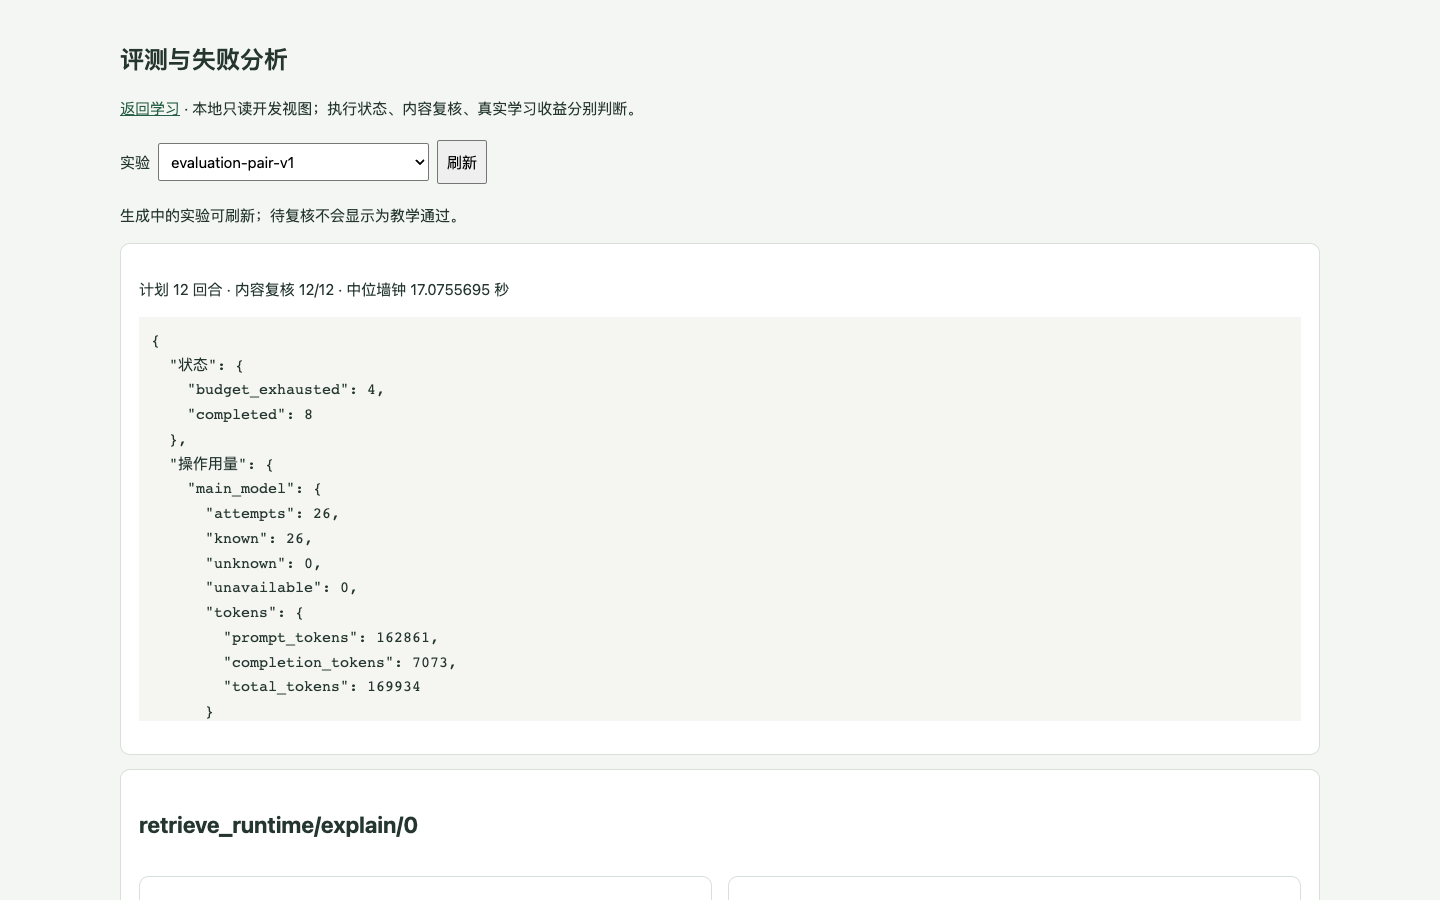
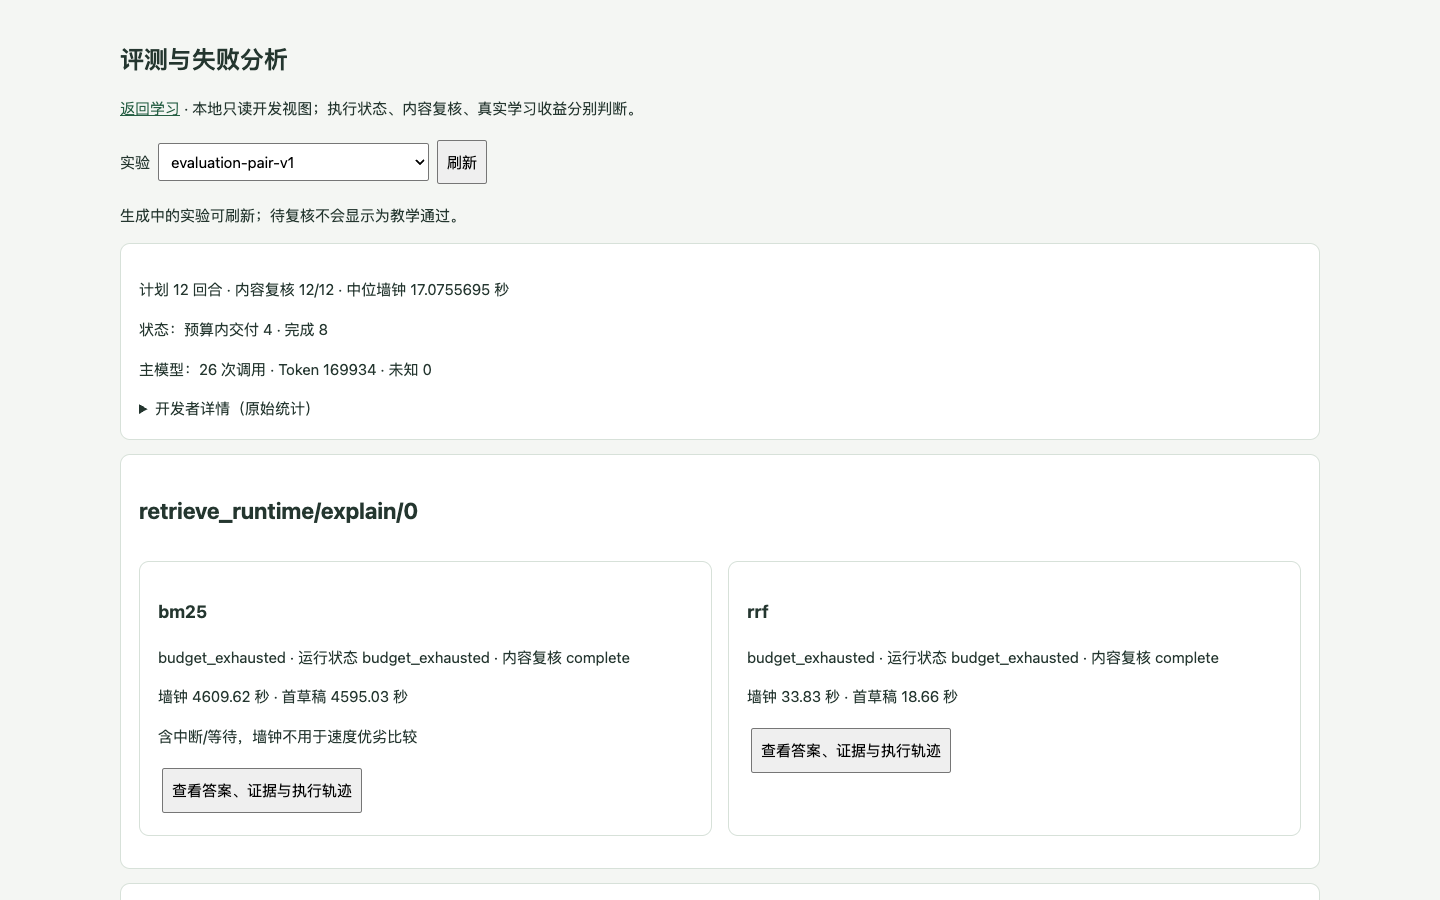
优化首次使用信息层级与评测摘要

diff --git a/src/learning_agent/index.html b/src/learning_agent/index.html
@@ -2,10 +2,10 @@
 <html lang="zh-CN"><meta charset="utf-8"><meta name="viewport" content="width=device-width,initial-scale=1">
 <title>Learning Agent</title><link rel="icon" href="data:,">
 <link rel="stylesheet" href="/static/vendor/katex/katex.min.css"><style>
-[hidden]{display:none!important}:root{font:15px/1.7 system-ui;color:#20312d;background:#f5f6f2}*{box-sizing:border-box}body{margin:0}header{padding:20px 28px;border-bottom:1px solid #dce3dc}h1{font-size:22px;margin:0}p{margin:8px 0;color:#53675e}main{display:grid;grid-template-columns:280px 1fr;gap:24px;max-width:1180px;margin:auto;padding:24px}aside,section{background:white;padding:20px;border:1px solid #dce3dc;border-radius:12px;min-width:0}input,select,textarea,button{font:inherit;border:1px solid #cbd5cc;border-radius:6px;padding:8px;width:100%;margin:5px 0}button{cursor:pointer;background:#e7efe7}button:disabled{opacity:.5}textarea{resize:vertical}article{padding:18px 0;border-bottom:1px solid #edf0ec}article .body{overflow-wrap:anywhere}article .body.user{white-space:pre-wrap}.katex-display{overflow-x:auto;overflow-y:hidden;padding:8px 0}pre{white-space:pre-wrap;overflow-wrap:anywhere}video,audio{width:100%;max-height:500px}.range{display:flex;gap:12px}.range label{flex:1}.sources{display:flex;gap:8px;flex-wrap:wrap}.sources button,.feedback-actions button{width:auto;font-size:13px}.feedback-actions{display:flex;gap:8px;flex-wrap:wrap;margin-top:12px}#learning-panel{padding:12px;background:#f5f6f2}#feedback-draft{padding:12px;border:1px solid #cbd5cc;border-radius:8px}pre{font:13px/1.6 ui-monospace,monospace;max-height:250px;overflow:auto;background:#f5f6f2;padding:12px}.error{color:#9b3d29}label{display:block;margin-top:16px}small{color:#64756b}#notice{min-height:28px}details{margin-top:10px}#chat{min-height:250px}a{color:#38634b}ul{padding-left:18px}@media(max-width:740px){main{grid-template-columns:1fr}}#starter-questions{margin:12px 0;padding:12px;background:#f5f6f2;border-radius:8px}#starter-questions .sources{margin-top:8px}
+[hidden]{display:none!important}:root{font:15px/1.7 system-ui;color:#20312d;background:#f5f6f2}*{box-sizing:border-box}body{margin:0}header{padding:20px 28px;border-bottom:1px solid #dce3dc}h1{font-size:22px;margin:0}p{margin:8px 0;color:#53675e}main{display:grid;grid-template-columns:280px 1fr;gap:24px;max-width:1180px;margin:auto;padding:24px}aside,section{background:white;padding:20px;border:1px solid #dce3dc;border-radius:12px;min-width:0}input,select,textarea,button{font:inherit;border:1px solid #cbd5cc;border-radius:6px;padding:8px;width:100%;margin:5px 0}button{cursor:pointer;background:#e7efe7}button:disabled{opacity:.5}textarea{resize:vertical}article{padding:18px 0;border-bottom:1px solid #edf0ec}article .body{overflow-wrap:anywhere}article .body.user{white-space:pre-wrap}.katex-display{overflow-x:auto;overflow-y:hidden;padding:8px 0}pre{white-space:pre-wrap;overflow-wrap:anywhere}video,audio{width:100%;max-height:500px}.range{display:flex;gap:12px}.range label{flex:1}.sources{display:flex;gap:8px;flex-wrap:wrap}.sources button,.feedback-actions button{width:auto;font-size:13px}.feedback-actions{display:flex;gap:8px;flex-wrap:wrap;margin-top:12px}#learning-panel{padding:12px;background:#f5f6f2}#feedback-draft{padding:12px;border:1px solid #cbd5cc;border-radius:8px}pre{font:13px/1.6 ui-monospace,monospace;max-height:250px;overflow:auto;background:#f5f6f2;padding:12px}.error{color:#9b3d29}label{display:block;margin-top:16px}small{color:#64756b}#notice{min-height:28px}details{margin-top:10px}#chat{min-height:250px}a{color:#38634b}ul{padding-left:18px}@media(max-width:740px){main{grid-template-columns:1fr}}#starter-questions{margin:12px 0;padding:12px;background:#f5f6f2;border-radius:8px}#starter-questions .sources{margin-top:8px}#tech-status{margin:6px 0 0}
 </style>
 <style>.body strong,.body b{font-weight:800;color:#172c25}.body h1,.body h2,.body h3,.body h4{color:#20312d;line-height:1.35;margin:18px 0 8px}.body table{display:block;max-width:100%;overflow:auto;border-collapse:collapse;margin:12px 0}.body th,.body td{border:1px solid #dce3dc;padding:7px 10px;text-align:left;vertical-align:top}.body th{background:#eef4ee;font-weight:800}.body code{background:#eef2ee;border-radius:4px;padding:2px 5px;font:0.9em ui-monospace,monospace}.body pre{background:#f1f4f1;border-left:3px solid #9aaa9d;border-radius:5px;padding:12px}.body blockquote{border-left:3px solid #9aaa9d;margin:12px 0;padding:4px 14px;color:#53675e}.sources button{border-color:#9aaa9d;background:#f2f7f2}.segments{display:flex;flex-direction:column;gap:4px}.segments button{width:100%;text-align:left;font-size:13px;background:#f7faf7;margin:0}</style>
-<header><h1>Learning Agent · 学懂当前的困惑</h1><p>上传讲义、笔记或课程音视频，围绕困惑提问；Agent 按需结合原文、图表与片段画面讲解。</p><small id="status">正在检查配置…</small></header>
+<header><h1>Learning Agent · 学懂当前的困惑</h1><p>上传讲义、笔记或课程音视频，围绕困惑提问；Agent 按需结合原文、图表与片段画面讲解。</p><small id="status">正在检查配置…</small><details id="tech-status" hidden><summary>技术信息</summary><p id="tech-status-body"></p></details></header>
 <main><aside><h3>资料空间</h3><select id="spaces" aria-label="资料空间"></select><form id="space-form"><input id="space-name" placeholder="新空间名称" required maxlength="120"><button>创建空间</button></form>
 <form id="upload-form"><label>添加文档 / 音频 / 视频<input id="file" type="file" accept=".txt,.md,.pdf,.mp4,.mov,.webm,.mkv,.mp3,.m4a,.wav,.ogg,.flac" required></label><button>上传资料</button></form><p id="upload-progress" role="status"></p><button id="pause-upload" type="button" hidden>在当前文件块结束后暂停上传</button><div id="upload-recovery" hidden><small id="upload-recovery-hint"></small><button id="resume-upload" type="button">确认所选为同一原文件，继续上传</button><button id="cancel-upload" type="button">取消未完成上传并释放临时文件</button></div><ul id="materials"></ul><button id="prepare-index" type="button">准备语义检索</button><small id="index-status"></small><details id="navigation" hidden><summary id="navigation-title">资料目录</summary><div id="navigation-entries"></div><button id="navigation-more" type="button" hidden>继续查看目录</button><small>页面首行 / 时间分组，用于定位；不代表已理解整份资料。</small></details>
 <details id="jobs-panel" open><summary>后台处理任务</summary><p id="worker-state"></p><div id="jobs"></div><small>暂停在当前处理步骤结束后生效。取消会阻止发布；已经发出的云端请求可能仍会计费。</small></details>
@@ -22,4 +22,4 @@
 <div id="memory-state"></div><div id="memory-items"></div>
 <details id="memory-editor"><summary>保存希望延续的学习记录</summary><form id="memory-form"><label>类型<select id="memory-kind"><option value="preference">讲解偏好</option><option value="goal">学习目标</option><option value="unresolved">待解释问题</option></select></label><label>希望保存的内容<textarea id="memory-text" rows="3" maxlength="600" required></textarea></label><label>适用范围<select id="memory-material"><option value="">整个主题</option></select></label><label>来源回答（选填；保存表示你已确认这条记录）<select id="memory-source"><option value="">由我直接填写</option></select></label><button>确认保存为主题记忆</button></form></details>
 <small>修改、停用或遗忘会使相关会话的旧摘要和自动历史接续失效，保留你明确填写的状态。遗忘会移除记忆及其修订内容，原始对话仍保留，可另行回看。主题资料范围创建后固定。</small></details><section id="runtime-panel" hidden aria-label="当前问答任务"><p id="runtime-state" role="status" aria-live="polite"></p><ol id="runtime-progress"></ol><p id="runtime-hint"></p><button id="runtime-cancel" type="button" hidden>停止本轮</button><label id="runtime-retry-warning" hidden><input type="checkbox" id="runtime-retry-ack" style="width:auto">先前模型请求可能已经计费，我确认重试可能再次计费。</label><button id="runtime-resume" type="button" hidden>继续本轮</button><button id="runtime-retry-submit" type="button" hidden>重试确认上次提交</button></section><div id="runtime-draft" hidden style="border:1px dashed #9aaa9d;border-radius:8px;padding:16px;margin:12px 0"><small id="runtime-draft-label"></small><div id="runtime-draft-text" style="white-space:pre-wrap;overflow-wrap:anywhere;margin-top:8px"></div></div><div id="starter-questions" hidden><small>可以这样开始：</small><div class="sources"><button type="button" data-starter="这份资料的核心结论是什么？">资料核心结论</button><button type="button" data-starter="请用一个小例子解释这个概念。">换个小例子</button><button type="button" data-starter="这个结论在资料里的哪一页或哪一段？">定位到来源</button></div></div><div id="chat"></div><form id="ask-form"><label for="question">你想弄懂什么？</label><div id="feedback-draft" hidden><p id="feedback-label"></p><label for="feedback-focus">对应的步骤或选中文字（选填，可修改）</label><textarea id="feedback-focus" rows="2" maxlength="1000"></textarea><button id="cancel-feedback" type="button">取消本次反馈</button></div><textarea id="question" rows="3" required maxlength="6000" placeholder="这段内容我没懂，能换个例子解释吗？"></textarea><button id="send">提问 / 继续追问</button></form></section></main>
-<script src="/static/vendor/marked/marked.umd.js"></script><script src="/static/vendor/dompurify/purify.min.js"></script><script src="/static/vendor/katex/katex.min.js"></script><script src="/static/vendor/katex/auto-render.min.js"></script><script src="/static/app.js?v=runtime-rt3-2"></script><script src="/static/memory.js?v=learning-memory-2"></script><script src="/static/runtime.js?v=runtime-rt3-1"></script></html>
+<script src="/static/vendor/marked/marked.umd.js"></script><script src="/static/vendor/dompurify/purify.min.js"></script><script src="/static/vendor/katex/katex.min.js"></script><script src="/static/vendor/katex/auto-render.min.js"></script><script src="/static/app.js?v=runtime-rt3-3"></script><script src="/static/memory.js?v=learning-memory-2"></script><script src="/static/runtime.js?v=runtime-rt3-1"></script></html>

diff --git a/src/learning_agent/evaluation/view.html b/src/learning_agent/evaluation/view.html
@@ -5,7 +5,7 @@
 const $=id=>document.getElementById(id);let eid='',rows=[],version=0;
 function el(tag,text,parent){const n=document.createElement(tag);if(text!==undefined)n.textContent=text;if(parent)parent.append(n);return n;}
 async function api(url){const r=await fetch(url);if(!r.ok)throw Error('读取失败 '+r.status);return r.json();}
-async function load(){const binding=++version;eid=$('experiments').value;if(!eid)return;const data=await api('/api/evaluations/'+encodeURIComponent(eid));if(binding!==version)return;rows=data.rows;$('summary').replaceChildren();el('p',`${data.manifest?.kind==='authored_judge_calibration'?'手写裁判校准（未运行Agent） · ':''}计划 ${data.planned} 回合 · 内容复核 ${data.reviewed}/${data.planned} · 中位墙钟 ${data.median_wall_s??'未知'} 秒`,$('summary'));el('pre',JSON.stringify({状态:data.counts,操作用量:data.usage,已预留:data.reservations},null,2),$('summary'));$('pairs').replaceChildren();$('details').replaceChildren();const groups=new Map();for(const r of rows){const key=r.case_id+'/'+r.turn_id+'/'+r.repeat;if(!groups.has(key))groups.set(key,[]);groups.get(key).push(r);}for(const [key,items] of groups){const card=el('section',undefined,$('pairs'));el('h2',key,card);const grid=el('div',undefined,card);grid.className='split';for(const row of items){const panel=el('article',undefined,grid);el('h3',row.variant,panel);el('p',`${row.status} · 运行状态 ${row.runtime_state??'未运行'} · 内容复核 ${row.review?.status??'待复核'}`,panel);el('p',`墙钟 ${row.latency.wall_s?.toFixed(2)??'未知'} 秒 · 首草稿 ${row.latency.first_draft_s?.toFixed(2)??'无'} 秒`,panel);if(!row.timing_comparable)el('p','含中断/等待，墙钟不用于速度优劣比较',panel);const button=el('button','查看答案、证据与执行轨迹',panel);button.onclick=()=>detail(row);}}}
+async function load(){const binding=++version;eid=$('experiments').value;if(!eid)return;const data=await api('/api/evaluations/'+encodeURIComponent(eid));if(binding!==version)return;rows=data.rows;const summary=$('summary');summary.replaceChildren();const names={completed:'完成',budget_exhausted:'预算内交付',failed:'失败',interrupted:'中断',cancelled:'取消',stopped_budget:'预算停止',blocked:'受阻',preparation_failed:'准备失败',not_started:'未开始'};const counts=Object.entries(data.counts||{}).map(([k,v])=>`${names[k]||k} ${v}`).join(' · ')||'无记录';const usage=data.usage?.main_model||{};const tokens=usage.tokens||{};el('p',`${data.manifest?.kind==='authored_judge_calibration'?'手写裁判校准（未运行Agent） · ':''}计划 ${data.planned} 回合 · 内容复核 ${data.reviewed}/${data.planned} · 中位墙钟 ${data.median_wall_s??'未知'} 秒`,summary);el('p','状态：'+counts,summary);el('p',`主模型：${usage.attempts??0} 次调用 · Token ${tokens.total_tokens??0} · 未知 ${usage.unknown??0}`,summary);const dev=el('details',undefined,summary);el('summary','开发者详情（原始统计）',dev);el('pre',JSON.stringify({状态:data.counts,操作用量:data.usage,已预留:data.reservations},null,2),dev);$('pairs').replaceChildren();$('details').replaceChildren();const groups=new Map();for(const r of rows){const key=r.case_id+'/'+r.turn_id+'/'+r.repeat;if(!groups.has(key))groups.set(key,[]);groups.get(key).push(r);}for(const [key,items] of groups){const card=el('section',undefined,$('pairs'));el('h2',key,card);const grid=el('div',undefined,card);grid.className='split';for(const row of items){const panel=el('article',undefined,grid);el('h3',row.variant,panel);el('p',`${row.status} · 运行状态 ${row.runtime_state??'未运行'} · 内容复核 ${row.review?.status??'待复核'}`,panel);el('p',`墙钟 ${row.latency.wall_s?.toFixed(2)??'未知'} 秒 · 首草稿 ${row.latency.first_draft_s?.toFixed(2)??'无'} 秒`,panel);if(!row.timing_comparable)el('p','含中断/等待，墙钟不用于速度优劣比较',panel);const button=el('button','查看答案、证据与执行轨迹',panel);button.onclick=()=>detail(row);}}}
 async function detail(row){const selected=eid,binding=version;const result=await api(`/api/evaluations/${encodeURIComponent(eid)}/trials/${encodeURIComponent(row.trial_id)}`);if(binding!==version||selected!==eid)return;const item=result.rows.find(r=>r.turn_id===row.turn_id);$('details').replaceChildren();el('h2',row.variant+' · '+row.case_id+' / '+row.turn_id,$('details'));el('h3','问题与正式答案',$('details'));el('p',item.question,$('details'));el('pre',item.answer||'无正式答案；草稿不作为评分答案',$('details'));el('h3','复核与失败依据',$('details'));el('pre',JSON.stringify({复核:item.review,规则:item.checks,候选问题:item.findings},null,2),$('details'));el('h3','操作与实际输入',$('details'));for(const op of item.trace?.operations||[]){const card=el('article',undefined,$('details'));el('h4',`${op.purpose} · ${op.logical_key} · attempt ${op.attempt} · ${op.state}`,card);el('pre',JSON.stringify({id:op.id,usage:op.usage,input:op.input_ref},null,2),card);for(const e of op.input_ref?.evidence||[]){for(const loc of [e,...(e.hits||[])]){const asset=Object.entries(item.assets||{}).find(([alias,a])=>a.id===(loc.material_id||loc.id));if(asset&&(loc.page||loc.start_seconds!==undefined)){const a=el('a',loc.page?'查看原始PDF第'+loc.page+'页':'回听片段 '+loc.start_seconds+'–'+loc.end_seconds+'秒',card);a.href=`/api/evaluations/${eid}/sources/${row.trial_id}/${asset[0]}`+(loc.page?'#page='+loc.page:'#t='+loc.start_seconds+','+loc.end_seconds);a.target='_blank';a.rel='noopener';el('br',undefined,card);}}}for(let i=0;i<(op.input_ref?.images||[]).length;i++){const img=el('img',undefined,card);img.alt='该次模型请求实际附加的图片';img.src=`/api/evaluations/${eid}/images/${row.trial_id}/${op.id}/${i}`;}}el('h3','回看原资料',$('details'));for(const [alias,asset] of Object.entries(item.assets||{})){const a=el('a',asset.name,$('details'));a.href=`/api/evaluations/${eid}/sources/${row.trial_id}/${alias}`;a.target='_blank';a.rel='noopener';el('br',undefined,$('details'));}el('details',undefined,$('details'));const events=$('details').lastChild;el('summary','持久事件时间线',events);el('pre',JSON.stringify(item.trace?.events||[],null,2),events);$('details').scrollIntoView({behavior:'smooth'});}
 async function init(){try{const old=$('experiments').value;const experiments=await api('/api/evaluations');$('experiments').replaceChildren();for(const e of experiments){const option=el('option',e.id,$('experiments'));option.value=e.id;}if(experiments.some(e=>e.id===old))$('experiments').value=old;if(!experiments.length)$('notice').textContent='尚无统一评测结果。请先按文档运行评测CLI。';else{$('notice').textContent='生成中的实验可刷新；待复核不会显示为教学通过。';await load();}}catch(error){$('notice').textContent=error.message;}}
 $('experiments').onchange=()=>load().catch(e=>$('notice').textContent=e.message);$('refresh').onclick=init;init();

diff --git a/src/learning_agent/static/app.js b/src/learning_agent/static/app.js
@@ -371,4 +371,4 @@ async function openHash() {
   notice('当前本机资料空间没有此媒体',true);
 }
 window.onhashchange=guarded(openHash);
-(async()=>{try{const s=await api('/status');configured=s.configured;asr=s.asr_provider;const c=s.capabilities||{};const modes=[c.text?'文本':'无文本',c.vision?'视觉':'无视觉',c.tool_calling?'工具':'无工具'];$('status').textContent=`模型：${s.model} · 协议：${s.protocol} · 能力：${modes.join(' / ')} · ${configured?'已配置，能力以实际执行结果为准':'未配置API key，可先整理资料'} · 媒体上限 ${(s.media_max_bytes/1024**3).toFixed(2)} GiB / ${(s.media_max_seconds/3600).toFixed(1)} 小时`;await loadSpaces();await openHash();}catch(e){notice(e.message,true);}})();
+(async()=>{try{const s=await api('/status');configured=s.configured;asr=s.asr_provider;const c=s.capabilities||{};const modes=[c.text?'文本':'无文本',c.vision?'视觉':'无视觉',c.tool_calling?'工具':'无工具'];$('status').textContent=configured?'模型已配置，可以直接提问。':'未配置模型：可以先浏览资料或已有对话；提问前运行 ./start.sh --configure。';$('tech-status-body').textContent=`模型：${s.model} · 协议：${s.protocol} · 能力：${modes.join(' / ')} · 媒体上限 ${(s.media_max_bytes/1024**3).toFixed(2)} GiB / ${(s.media_max_seconds/3600).toFixed(1)} 小时`;$('tech-status').hidden=false;await loadSpaces();await openHash();}catch(e){notice(e.message,true);}})();
